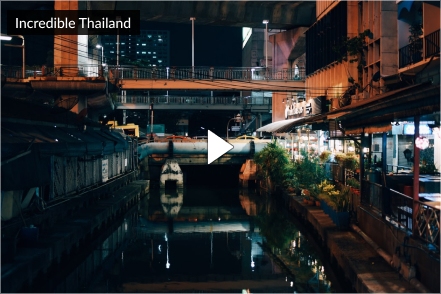
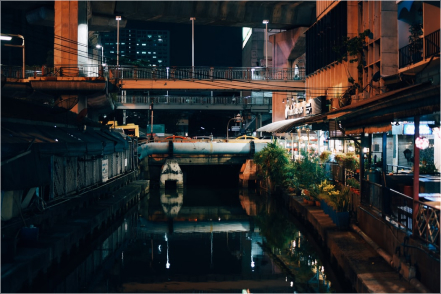
hw13_2

Changed region(s): [[0.0295, 0.0306, 0.3243, 0.1224], [0.4717, 0.4286, 0.5306, 0.551]]

diff --git a/styles/style.scss b/styles/style.scss
@@ -342,6 +342,70 @@
 
                 .images{
                     @include flex (center, space-around, 95px, row);
+                        &_images1{
+                            position: relative;
+                            p{
+                                position: absolute;
+                                    @include RobotoSlab (15px, 18px, 400);
+                                    padding: 4px 6px;
+                                    color: $white;
+                                    background-color: $blackOpasity;
+                                    top: 10px;
+                                    left: 5px;
+                            }
+
+                            .icon1{
+                                position: absolute;
+                                left: 45%;
+                                top: 50%;
+                                transform: translateY(-50%);
+                            }
+                       
+                        }
+
+                        &_images2{
+                            position: relative;
+                            p{
+                                position: absolute;
+                                    @include RobotoSlab (15px, 18px, 400);
+                                    padding: 4px 6px;
+                                    color: $white;
+                                    background-color: $blackOpasity;
+                                    top: 10px;
+                                    left: 5px;
+                            }
+
+                            .icon2{
+                                position: absolute;
+                                left: 45%;
+                                top: 50%;
+                                transform: translateY(-50%);
+                                height: 45px;
+                            }
+                       
+                        }
+
+                        &_images3{
+                            position: relative;
+                            p{
+                                position: absolute;
+                                    @include RobotoSlab (15px, 18px, 400);
+                                    padding: 4px 6px;
+                                    color: $white;
+                                    background-color: $blackOpasity;
+                                    top: 10px;
+                                    left: 5px;
+                            }
+
+                            .icon3{
+                                position: absolute;
+                                left: 45%;
+                                top: 50%;
+                                transform: translateY(-50%);
+                            }
+                       
+                        }
+                        
                         &_img1{
                             width: 300px;
                         }
@@ -354,6 +418,7 @@
                             width: 300px;
                         }
                 }
+
 
         }
 }

diff --git a/styles/style.css b/styles/style.css
@@ -434,6 +434,73 @@
   gap: 95px;
   flex-direction: row;
 }
+.sixth_box_cont .images_images1 {
+  position: relative;
+}
+.sixth_box_cont .images_images1 p {
+  position: absolute;
+  font-family: "RobotoSlab", sans-serif;
+  font-style: normal;
+  font-size: 15px;
+  line-height: 18px;
+  font-weight: 400;
+  padding: 4px 6px;
+  color: #fff;
+  background-color: rgba(0, 0, 0, 0.8);
+  top: 10px;
+  left: 5px;
+}
+.sixth_box_cont .images_images1 .icon1 {
+  position: absolute;
+  left: 45%;
+  top: 50%;
+  transform: translateY(-50%);
+}
+.sixth_box_cont .images_images2 {
+  position: relative;
+}
+.sixth_box_cont .images_images2 p {
+  position: absolute;
+  font-family: "RobotoSlab", sans-serif;
+  font-style: normal;
+  font-size: 15px;
+  line-height: 18px;
+  font-weight: 400;
+  padding: 4px 6px;
+  color: #fff;
+  background-color: rgba(0, 0, 0, 0.8);
+  top: 10px;
+  left: 5px;
+}
+.sixth_box_cont .images_images2 .icon2 {
+  position: absolute;
+  left: 45%;
+  top: 50%;
+  transform: translateY(-50%);
+  height: 45px;
+}
+.sixth_box_cont .images_images3 {
+  position: relative;
+}
+.sixth_box_cont .images_images3 p {
+  position: absolute;
+  font-family: "RobotoSlab", sans-serif;
+  font-style: normal;
+  font-size: 15px;
+  line-height: 18px;
+  font-weight: 400;
+  padding: 4px 6px;
+  color: #fff;
+  background-color: rgba(0, 0, 0, 0.8);
+  top: 10px;
+  left: 5px;
+}
+.sixth_box_cont .images_images3 .icon3 {
+  position: absolute;
+  left: 45%;
+  top: 50%;
+  transform: translateY(-50%);
+}
 .sixth_box_cont .images_img1 {
   width: 300px;
 }

diff --git a/index.html b/index.html
@@ -150,9 +150,9 @@
     <div class="sixth_box_cont">
         <div class="sixth_box_cont title">travel stories</div>
         <div class="sixth_box_cont images">
-            <img src="./imgs/6.2_Img.jpg" alt="6.2" class="images_img1">
-            <img src="./imgs/6.3_Img.jpg" alt="6.3" class="images_img2">
-            <img src="./imgs/6.4_img.jpg" alt="6.4" class="images_img3">
+            <div class="sixth_box_cont_img images_images1"><img src="./imgs/6.2_Img.jpg" alt="6.2" class="images_img1"><p>Incredible Thailand</p><img class="icon1" src="./imgs/6.5_icon_play.svg" alt="icon"></div>
+            <div class="sixth_box_cont_img images_images2"><img src="./imgs/6.3_Img.jpg" alt="6.3" class="images_img2"><p>Our story for 90 seconds</p><img class="icon2" src="./imgs/6.5_icon_play.svg" alt="icon"></div>
+            <div class="sixth_box_cont_img images_images3"><img src="./imgs/6.4_img.jpg" alt="6.4" class="images_img3"><p>Unexplored Aurora’s Light</p><img class="icon3" src="./imgs/6.5_icon_play.svg" alt="icon"></div>
         </div>
     </div>
 </div>
